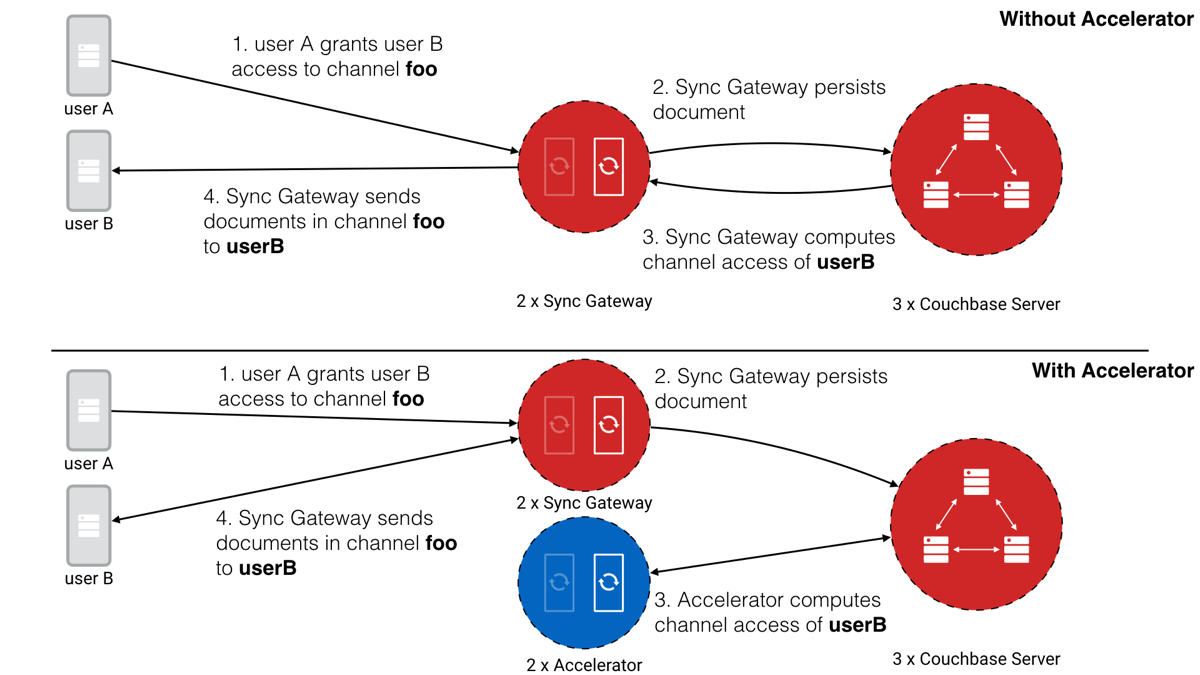
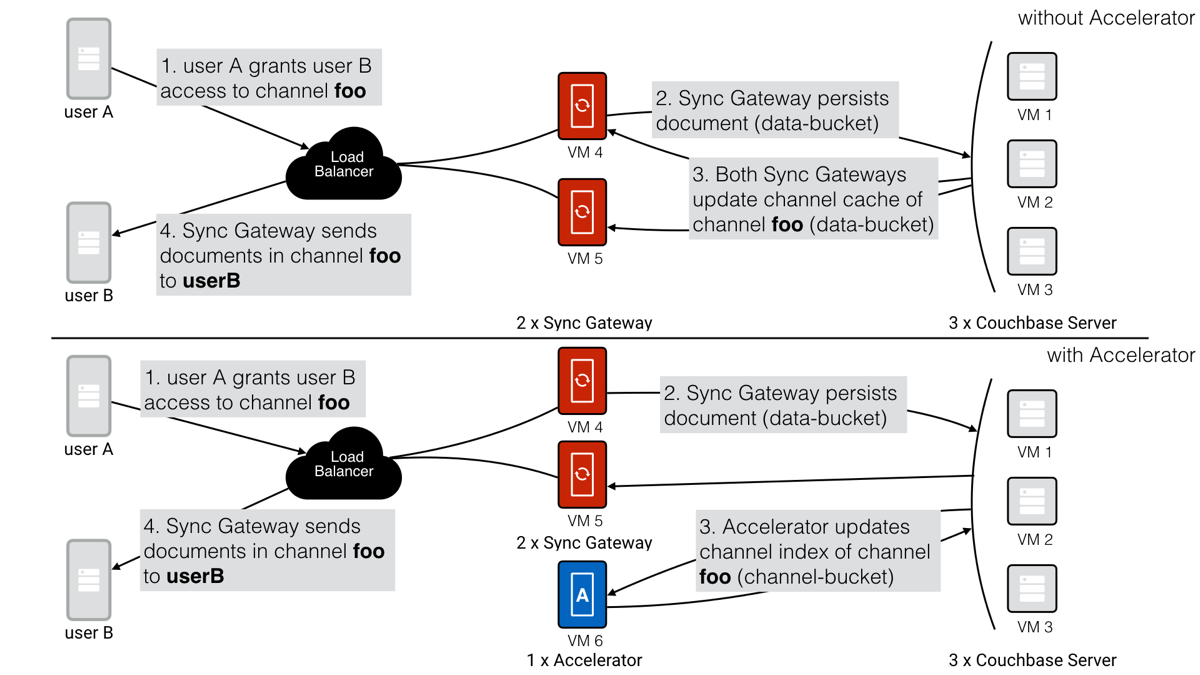
Update diagram and commentary based on Adam+Austin's feedback.

diff --git a/md-docs/_14/guides/sync-gateway/accelerator.md b/md-docs/_14/guides/sync-gateway/accelerator.md
@@ -10,17 +10,15 @@ Sync Gateway Accelerator is designed to cover the second aspect of highly scalab
 
 ## How does it work?
 
-Part of Sync Gateway's role in a Couchbase Mobile deployment is to monitor changes happening in the backing Couchbase Server bucket, apply security filtering (access control) and stream the results to users.
+Part of Sync Gateway's role in a Couchbase Mobile deployment is to query the documents in a given channel from Couchbase Server and stream the results to users.
 
 ![](img/channel-access-accelerator.png)
 
-To optimize this process, Sync Gateway maintains an in-memory cache of recent changes in each channel (steps 2 and 3) which is used to serve the `GET/POST /{db}/_changes` requests (step 4). So as write throughput increases, the cache for a particular document is invalidated more frequently and Sync Gateway needs to retrieve the change from Couchbase Server. Each node will end up doing this work to maintain the in-memory cache.
+To optimize this process, Sync Gateway maintains an in-memory cache of recent changes in each channel (step 3) which is used to serve the `GET/POST /{db}/_changes` requests (step 4). So as write throughput increases, the cache for a particular channel is invalidated more frequently and Sync Gateway needs to update its channel cache. Each Sync Gateway instance will end up doing this work to maintain the in-memory cache.
 
 With Couchbase Mobile 1.4, it's now possible to delegate the task of applying security filtering (access control) to a separate component called Sync Gateway Accelerator. This component can also be scaled horizontally and persists the channel index to a different bucket. In this configuration, the Sync Gateway nodes support your applications (Web, Mobile, IoT) as it normally does while Sync Gateway Accelerator handles the channel indexing. Separating the two workloads in distinct entities makes it possible to scale both Sync Gateway and Sync Gateway Accelerator to handle much larger write throughput. The diagram below represents the architecture differences with and without Sync Gateway Accelerator.
 
 ![](img/accelerator-comparison.png)
-
-![](img/data_flow_overview.png)
 
 ## Configuration
 
